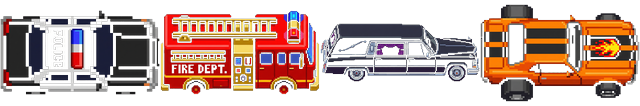
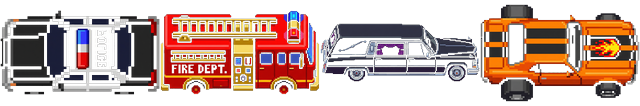
Band on the Run: flip police car left, firetruck to center lane (3.5x), muscle to rows 2&4, auto-flip left-movers

Changed region(s): [[0.0, 0.1132, 0.25, 0.9057]]

diff --git a/games/dead-crossing/index.html b/games/dead-crossing/index.html
@@ -131,15 +131,14 @@ var TOURVAN_W = 120, TOURVAN_H = Math.round(320 * 120/480); // ≈107px tall
 var ROW_TYPES = ['start','road','road','road','road','road','median','water','water','water','water','water','goal_safe','goal'];
 
 // ── Lane definitions ──
-// type codes: 'car0','car1','car2' = tinted road vehicles; 'log_l','log_m','log_s' = logs
-// tint applied over grayscale vehicle sprites via composite
+// type codes: 'car0','car1','car2' = road vehicles; 'log_l','log_m','log_s' = logs
 var LANES = [
   null,
-  { sprKey:'car0',  size:GRID*2.2, speed:-1.4, spacing:[3,5]   },
-  { sprKey:'car1', size:GRID*1.4, speed: 2.0, spacing:[4,3,6] },
-  { sprKey:'car3',  size:GRID*3.5, speed:-1.0, spacing:[4]     },
-  { sprKey:'car1', size:GRID*1.4, speed: 1.6, spacing:[3,4]   },
-  { sprKey:'car0',  size:GRID*2.0, speed:-2.2, spacing:[5,3]   },
+  { sprKey:'car0',  size:GRID*2.2, speed:-1.4, spacing:[3,5]   },  // police (rows 1,5 — go left)
+  { sprKey:'car3',  size:GRID*2.0, speed: 2.0, spacing:[4,3,6] },  // muscle (rows 2,4 — go right)
+  { sprKey:'car1',  size:GRID*3.5, speed:-1.0, spacing:[4]     },  // firetruck (row 3 — big, goes left)
+  { sprKey:'car3',  size:GRID*2.0, speed: 1.6, spacing:[3,4]   },  // muscle (rows 2,4 — go right)
+  { sprKey:'car0',  size:GRID*2.0, speed:-2.2, spacing:[5,3]   },  // police (rows 1,5 — go left)
   null,
   { sprKey:'log_l', size:GRID*3,   speed: 1.2, spacing:[2]       },
   { sprKey:'log_s', size:GRID*1.5, speed:-0.9, spacing:[0,2,0,3] },
@@ -172,7 +171,7 @@ function buildRows() {
     var totalW=sp.reduce((a,b)=>a+b,0)*GRID+sp.length*pat.size;
     var endX=0; while(endX<W) endX+=totalW; endX+=totalW;
     while(x<endX) {
-      rows[r].push({x:x,size:pat.size,speed:pat.speed,sprKey:pat.sprKey,tint:pat.tint,index:idx});
+      rows[r].push({x:x,size:pat.size,speed:pat.speed,sprKey:pat.sprKey,index:idx});
       x+=pat.size+sp[idx]*GRID; idx=(idx+1)%sp.length;
     }
   }
@@ -331,7 +330,7 @@ function drawTourVan(){
   }
 }
 
-// ── Draw vehicle sprite (with tint overlay for grayscale cars, or log) ──
+// ── Draw vehicle sprite (colored sprite or log) ──
 function drawVehicle(spr){
   var ry=spr._y!==undefined?spr._y:rowY(0);
   var rect=SPRITE_RECTS[spr.sprKey];
@@ -344,8 +343,14 @@ function drawVehicle(spr){
       ctx.save();
       // Clip to sprite area
       ctx.beginPath();ctx.rect(spr.x,ry,spr.size,GRID);ctx.clip();
-      // Draw sprite stretched to lane size
-      ctx.drawImage(img,rect.sx,rect.sy,rect.sw,rect.sh,spr.x,ry,spr.size,GRID);
+      // Flip horizontally for left-moving sprites (negative speed)
+      if(!isLog&&spr.speed<0){
+        ctx.translate(spr.x+spr.size/2, ry+GRID/2);
+        ctx.scale(-1,1);
+        ctx.drawImage(img,rect.sx,rect.sy,rect.sw,rect.sh,-spr.size/2,-(GRID/2),spr.size,GRID);
+      } else {
+        ctx.drawImage(img,rect.sx,rect.sy,rect.sw,rect.sh,spr.x,ry,spr.size,GRID);
+      }
       // Vehicles are now full-color sprites — no tint needed
       ctx.restore();
       return;
@@ -359,7 +364,7 @@ function drawVehicle(spr){
     ctx.fillStyle='#c8a050';ctx.beginPath();ctx.arc(spr.x+10,ry+GRID/2,7,0,Math.PI*2);ctx.fill();
     ctx.beginPath();ctx.arc(spr.x+spr.size-10,ry+GRID/2,7,0,Math.PI*2);ctx.fill();
   } else {
-    ctx.fillStyle=spr.tint||'#445';ctx.fillRect(spr.x,ry+6,spr.size,GRID-12);
+    ctx.fillStyle='#445';ctx.fillRect(spr.x,ry+6,spr.size,GRID-12);
     ctx.fillStyle='rgba(180,220,255,0.2)';ctx.fillRect(spr.x+spr.size*0.22,ry+8,spr.size*0.22,GRID-18);
   }
 }
